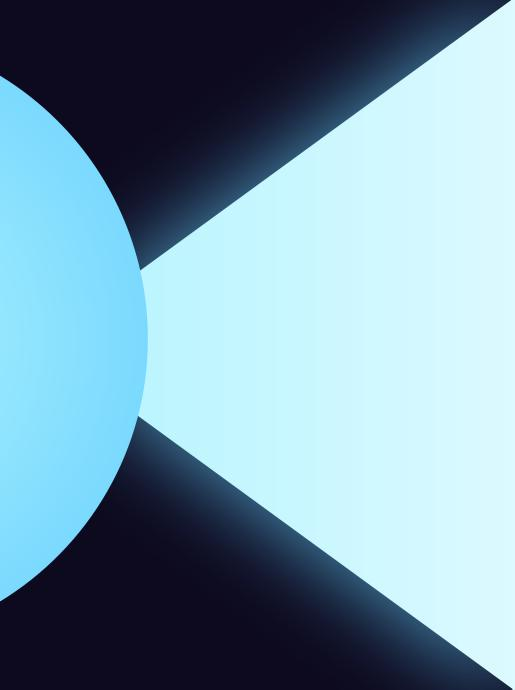
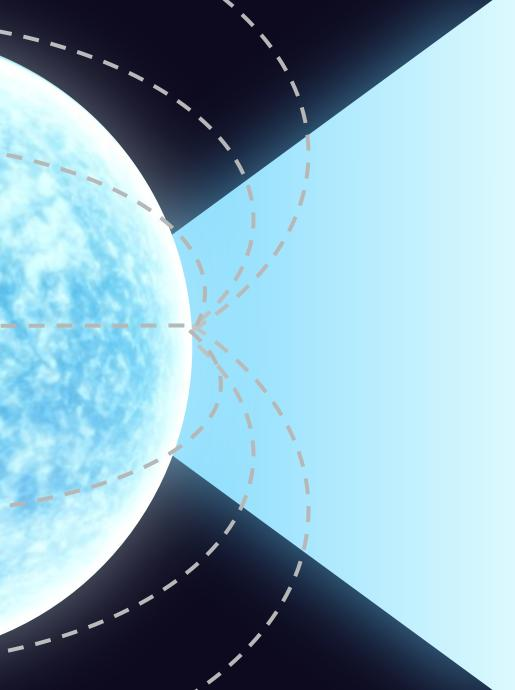
Finished about & phys

diff --git a/phys.html b/phys.html
@@ -1,4 +1,4 @@
-<!DOCTYPE html>
+<!doctype html>
 <html lang="en">
 
 <head>
@@ -17,34 +17,39 @@
         integrity="sha384-FKyoEForCGlyvwx9Hj09JcYn3nv7wiPVlz7YYwJrWVcXK/BmnVDxM+D2scQbITxI"
         crossorigin="anonymous"></script>
 
-    <link rel="stylesheet" href="css/fonts.css">
-    <link rel="stylesheet" href="css/phys.css">
+    <link rel="icon" type="image/x-icon" href="img/main/favicon.png" />
+
+    <link rel="stylesheet" href="css/fonts.css"/>
+    <link rel="stylesheet" href="css/phys.css"/>
 </head>
 
 <body class="body">
     <div class="container-lg min-vh-100">
         <header>
             <!--Navbar-->
-            <nav class="navbar navbar-expand-lg nav-background-color">
+            <nav class="navbar navbar-expand-lg nav-background-color" data-bs-theme="dark">
                 <div class="container">
                     <a href="index.html" class="navbar-brand"> <!-- Website Brand -->
-                        <img src="" alt="Ad Astra Logo" class="d-inline-block align-text-top" height="50">
+                        <img src="img/main/favicon.png" alt="Ad Astra Logo" class="d-inline-block align-text-top" height="50">
 
                     </a>
 
                     <!-- Hamburger Menu Button-->
-                    <button class="navbar-toggler" type="button" data-bs-toggle="collapse" data-bs-target="#navmenu">
-                        <span class="navbar-toggler-icon">
-
-                        </span>
-                    </button>
+                    <button
+              class="navbar-toggler"
+              type="button"
+              data-bs-toggle="collapse"
+              data-bs-target="#navmenu"
+            >
+              <span class="navbar-toggler-icon"> </span>
+            </button>
 
                     <!-- Collapble navbar menu with custom hover underline CSS animation-->
                     <div class="collapse navbar-collapse" id="navmenu"> <!-- Links to hamburger -->
                         <ul class="navbar-nav ms-auto"> <!-- ms auto provides auto margin spacing -->
                             <li class="nav-item">
                                 <a href="star.html"
-                                    class="nav-link hover-underline-animation nav-menu-item">Astrometry</a>
+                                    class="nav-link hover-underline-animation nav-menu-item">Astrography</a>
                             </li>
                             <li class="nav-item">
                                 <a href="phys.html"
@@ -70,7 +75,7 @@
                     <div class="col-sm-0 p-0 d-flex align-items-center">
                         <div class="container lower" style="margin: 150px">
                             <h2><em>Science & Celestial Bodies</em></h2>
-                            <h1 class="display-4 overview-right-padding title">Astrophysics</h1>
+                            <h1 class="display-4 overview-right-padding title shadow">Astrophysics</h1>
                         </div>
                     </div>
                 </div>
@@ -82,10 +87,11 @@
             <div class="container">
                 <div class="row">
                     <div class="col-sm-4 p-0">
-                        <img src="../img/phys/neutron.jpg" alt="Neutron Stars" class="img-fluid">
+                        <img src="../img/phys/neutron.gif" alt="Neutron Stars" class="img-fluid">
                     </div>
                     <div class="col-sm-8 p-2">
-                        <h1 style="color:rgb(22, 65, 146);" class="text-center overview-right-padding title">Neutron Stars</h1>
+                        <h1 style="color:rgb(22, 65, 146);" class="text-center overview-right-padding title shadow">Neutron
+                            Stars</h1>
                         <p class="text-center">Neutron stars begin their lifespan with an enormous bang! These stars are
                             almost as dense
                             as a
@@ -113,39 +119,41 @@
         </section>
 
         <div class="gradient">
-            <br><br><br><br><br><br>
+            <br><br><br><br>
         </div>
 
         <!--Dark Energy-->
         <section class="dark-energy">
             <div class="container text-center">
-                <h1 class="overview-right-padding title">Dark Energy</h1>
+                <h1 class="overview-right-padding title shadow">Dark Energy</h1>
                 <div class="row">
-                    <div class="col-sm-6 p-1.9 text-start">
-                        <p>The expansion of the universe is driven by dark energy - around 70% of the universe is dark
-                            energy.
+                    <div class="col-sm-6 p-3 text-start">
+                        <p>The expansion of the universe is driven by dark energy - around 70% of the universe is <strong>dark
+                            energy</strong>.
                             In the early 1900s, scientists realized that dark energy is present in the universe. They
-                            found that the speed at which other galaxies are moving away from us is increasing,
+                            found that the speed at which other galaxies are moving away from us is <strong>increasing</strong>,
                             because of this invisible energy!
                             Dark energy is a very nebulous <em>(no pun intended)</em> concept.
-                            Is it a force that causes the universe to expand? Or something else?</p>
+                            Is it a force that causes the universe to expand? Or <strong>something else?</strong></p>
                     </div>
-                    <div class="col-sm-6 p-0">
-                        <img src="../img/phys/dark_energy.jpg" alt="Dark Energy" class="img-fluid">
+                    <div class="col-sm-6 p-3">
+                        <img src="../img/phys/dark_energy.jpg" alt="Dark Energy" class="img-fluid shadow">
                     </div>
                 </div>
                 <div class="row">
-                    <div class="col-sm-6 p-0">
-                        <img src="../img/phys/dark_energy.jpg" alt="Dark Energy 2" class="img-fluid">
+                    <div class="col-sm-6 p-3">
+                        <img src="../img/phys/dark_energy2.jpg" alt="Dark Energy 2" class="img-fluid shadow">
                     </div>
-                    <div class="col-sm-6 p-1.9 text-end">
-                        <p>“Vacuum energy” is a background energy that exists throughout the universe. This is a
+                    <div class="col-sm-6 p-3 text-end">
+                        <p><strong>“Vacuum energy”</strong> is a background energy that exists throughout the universe. This is a
                             possible explanation for what scienists perceive as dark energy.
-                            However, this theory seems to contradict with the theories of the universe during calculations.</p>
-                        <p>“Fluid energy” is theoretical fifth element that could be a combination of dark energy and dark
+                            However, this theory seems to <strong>contradict</strong> with the theories of the universe during
+                            calculations.</p>
+                        <p><strong>“Fluid energy”</strong> is theoretical fifth element that could be a combination of dark energy and
+                            dark
                             matter.</p>
-                        <p>Dark energy could be a defect in spacetime (like wrinkles in a fabric). </p>
-                        <p>Dark energy could also be a contradiction to our current understanding of the universe,
+                        <p>Dark energy could be a <strong>defect</strong> in spacetime (like wrinkles in a fabric). </p>
+                        <p>Dark energy could also be a contradiction to our <strong>current</strong> understanding of the universe,
                             which should be modified with the more that we discover about our universe.
                         </p>
                     </div>
@@ -155,7 +163,7 @@
         </section>
 
         <div class="gradient2">
-            <br><br><br><br><br><br>
+            <br><br><br>    
         </div>
 
         <!--Black Holes-->
@@ -169,14 +177,17 @@
 
                     <div class="circle-container">
                         <div><img
-                                src="https://raw.githubusercontent.com/cbolson/assets/refs/heads/main/codepen/butterflies/morpho.png"
-                                alt="morpho"></div>
+                                src="img/phys/carousel1.png"
+                                alt="clock"></div>
                         <div><img
-                                src="https://raw.githubusercontent.com/cbolson/assets/refs/heads/main/codepen/butterflies/peacock-2.png"
-                                alt="Peacock"></div>
+                                src="img/phys/carousel2.png"
+                                alt="black hole"
+                                height="155"></div>
                         <div><img
-                                src="https://raw.githubusercontent.com/cbolson/assets/refs/heads/main/codepen/butterflies/monarch.png"
-                                alt="monarch"></div>
+                                src="img/phys/carousel3.png"
+                                alt="monarch"
+                                height="150"
+                                style="border-radius: 15%;"></div>
                     </div>
                     <div class="contents text-start">
 
@@ -192,8 +203,8 @@
                             </ul>
                             <!--<a href="#">more info</a>-->
                             <div class="buttons">
-                                <label for="card-X" title="Peacock Butterfly" disabled>&#10094;</label>
-                                <label for="card-2" title="Monarch Butterfly">&#10095;</label>
+                                <label for="card-X" title="Card 3" disabled>&#10094;</label>
+                                <label for="card-2" title="Card 2">&#10095;</label>
                             </div>
                         </article>
 
@@ -208,8 +219,8 @@
                                     known at 6.6 billion times the mass of the sun</li>
                             </ul>
                             <div class="buttons">
-                                <label for="card-1" title="Blue Morpho">&#10094;</label>
-                                <label for="card-3" title="Peacock Butterfly">&#10095;</label>
+                                <label for="card-1" title="Card 1">&#10094;</label>
+                                <label for="card-3" title="Card 3">&#10095;</label>
                             </div>
                         </article>
 
@@ -226,8 +237,8 @@
                                 </li>
                             </ul>
                             <div class="buttons">
-                                <label for="card-2" title="Monarch Butterfly">&#10094;</label>
-                                <label for="card-X" title="Blue Morpho" disabled>&#10095;</label>
+                                <label for="card-2" title="Card 2">&#10094;</label>
+                                <label for="card-X" title="Card 1" disabled>&#10095;</label>
                             </div>
                         </article>
                         </d>

diff --git a/about.html b/about.html
@@ -17,6 +17,8 @@
         integrity="sha384-FKyoEForCGlyvwx9Hj09JcYn3nv7wiPVlz7YYwJrWVcXK/BmnVDxM+D2scQbITxI"
         crossorigin="anonymous"></script>
 
+    <link rel="icon" type="image/x-icon" href="img/main/favicon.png" />
+
     <link rel="stylesheet" href="css/fonts.css">
     <link rel="stylesheet" href="css/phys.css">
 </head>
@@ -25,10 +27,10 @@
     <div class="container-lg min-vh-100">
         <header>
             <!--Navbar-->
-            <nav class="navbar navbar-expand-lg nav-background-color">
+            <nav class="navbar navbar-expand-lg nav-background-color" data-bs-theme="dark">
                 <div class="container">
                     <a href="index.html" class="navbar-brand"> <!-- Website Brand -->
-                        <img src="" alt="Ad Astra Logo" class="d-inline-block align-text-top" height="50">
+                        <img src="img/main/favicon.png" alt="Ad Astra Logo" class="d-inline-block align-text-top" height="50">
 
                     </a>
 
@@ -44,7 +46,7 @@
                         <ul class="navbar-nav ms-auto"> <!-- ms auto provides auto margin spacing -->
                             <li class="nav-item">
                                 <a href="star.html"
-                                    class="nav-link hover-underline-animation nav-menu-item">Astrometry</a>
+                                    class="nav-link hover-underline-animation nav-menu-item">Astrography</a>
                             </li>
                             <li class="nav-item">
                                 <a href="phys.html"
@@ -76,7 +78,7 @@
                             <div class="card-body">
                                 <h4 class="card-title">Arisha Islam</h4>
                                 <h5>Class: Software Engineering</h5>
-                                <p class="card-text">Arisha worked mainly on the "Astrobiology" page of this website. She worked with her team to create this educational site.</p>
+                                <p class="card-text">Arisha worked mainly on the "Astrobiology" page of this website. She also worked on the homepage of this site and general site formatting.</p>
                             </div>
                         </div>
                     </div>
@@ -86,7 +88,7 @@
                             <div class="card-body">
                                 <h4 class="card-title">Rose Marinaccio</h4>
                                 <h5>Class: Software Engineering</h5>
-                                <p class="card-text">Rose worked mainly on the "Astrometry" page of this website. She worked with her team to create this educational site.</p>
+                                <p class="card-text">Rose worked mainly on the "Astrography" page of this website. She researched this topic extensively and added informative content.</p>
                             </div>
                         </div>
                     </div>

diff --git a/css/phys.css b/css/phys.css
@@ -5,6 +5,7 @@
 .dark-energy {
     color: white;
     background-color: rgb(4, 0, 44);
+    padding: 0px;
 }
 
 .footer {
@@ -15,7 +16,13 @@
     background: linear-gradient(180deg, #dcfaffff, rgb(4, 0, 44));
 }
 
+.gradient2 {
+    background: linear-gradient(180deg, rgb(4, 0, 44), #f5f4db);
+}
 
+h1.shadow {
+    filter: drop-shadow(1px 1px 10px #4b4ee7b6);
+}
 
 .hero-image {
     background-image:
@@ -39,6 +46,13 @@ nav {
     align-items: center;
     background-color: #dcfaffff;
     color: rgb(9, 17, 75);
+    font-size: 1rem;
+    line-height: 1.5rem;
+}
+
+.shadow {
+    border-radius: 15px;    
+    filter: drop-shadow(0px 0px 10px #b8b9f4b6);
 }
 
 .black-hole {
@@ -61,7 +75,7 @@ footer::after {
   animation-timeline: scroll();
 }
 
-/* ------------------test------------------ */
+/* ------------------black hole card------------------ */
 @layer base, demo;
 
 @layer demo {
@@ -260,8 +274,8 @@ footer::after {
                 display: grid;
                 gap: .5rem;
                 place-content: start;
-                font-size: 1.375rem;
-                line-height: 2rem;
+                font-size: 1rem;
+                line-height: 1.5rem;
             }
 
             & li {
@@ -364,5 +378,4 @@ body {
         line-height: 1.75rem;
         display: grid;
         place-content: center;
-        gap: 1rem;
-    }
+}
